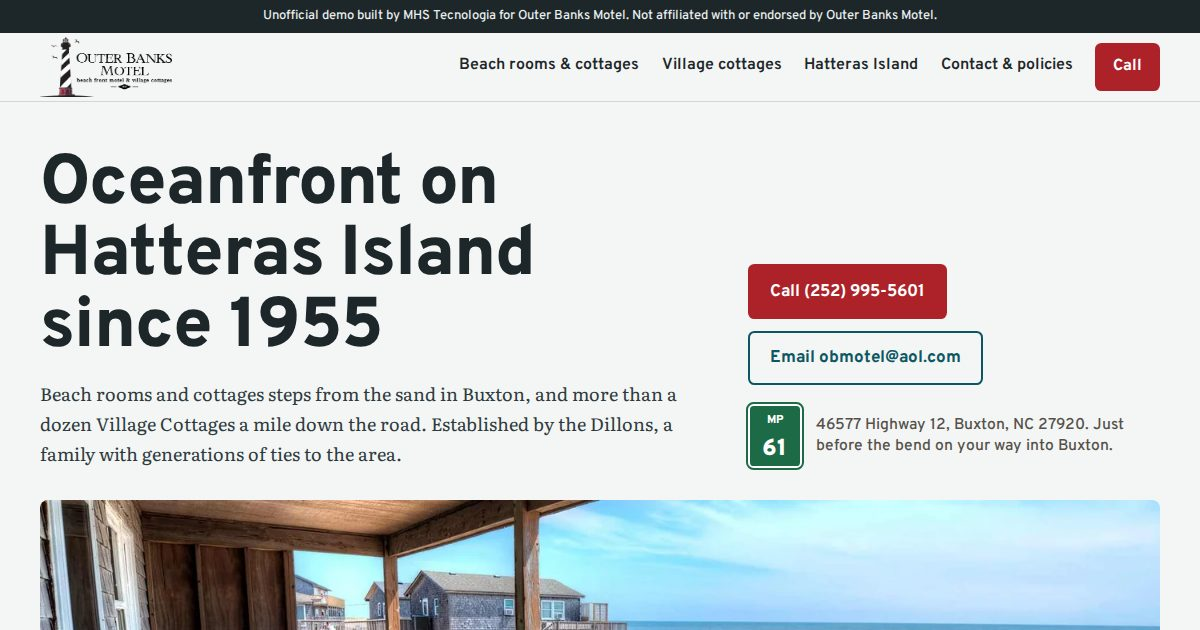
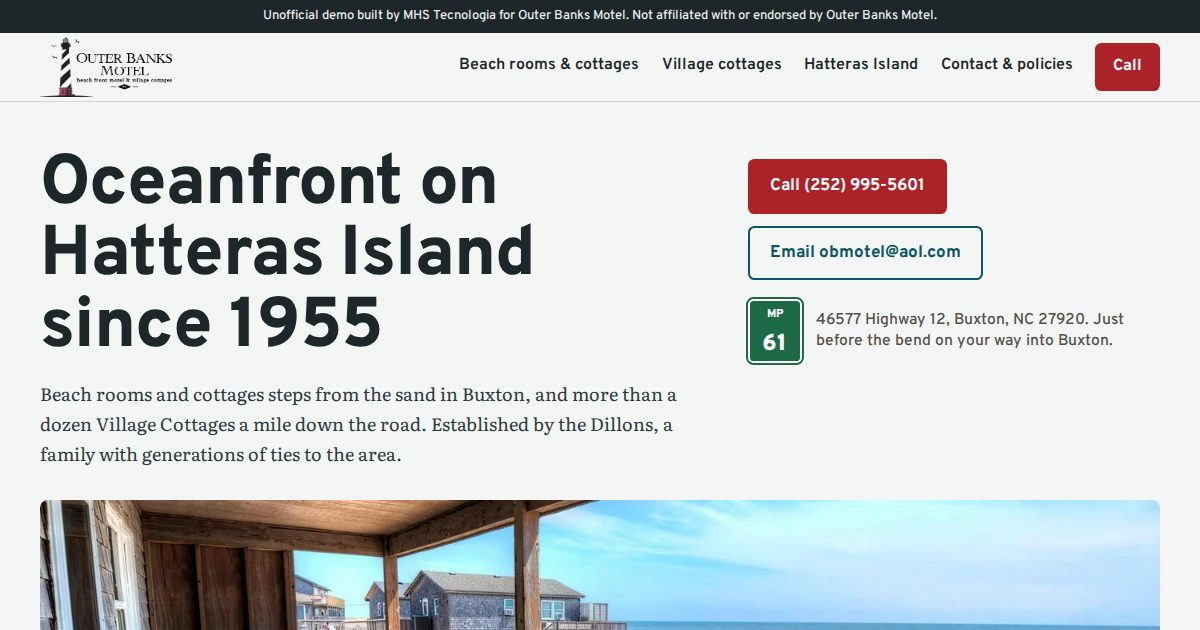
Previews: 158 ativos

Changed region(s): [[0.6167, 0.3921, 0.9558, 0.754], [0.6167, 0.2413, 0.8017, 0.3619]]

diff --git a/outer-banks-motel-buxton-nc/index.html b/outer-banks-motel-buxton-nc/index.html
@@ -49,8 +49,9 @@ header.top .wrap{display:flex;align-items:center;gap:1.5rem;min-height:4.25rem}
 .top .call-sm{padding:.55rem 1rem;min-height:2.6rem;font-size:1rem}
 /* hero */
 .hero{padding:clamp(1.5rem,4vw,3.25rem) 0 0}
-.hero-head{display:grid;grid-template-columns:minmax(0,1.6fr) minmax(0,1fr);gap:1rem 3rem;align-items:end}
+.hero-head{display:grid;grid-template-columns:minmax(0,1.6fr) minmax(0,1fr);gap:1rem 3rem;align-items:start}
 .lede{font-size:1.125rem;color:#2e3a3d;margin-top:.9rem}
+.hero-head .actions{margin-top:.6rem}
 .actions{display:flex;flex-wrap:wrap;gap:.75rem;margin-top:1.4rem}
 .mp{display:flex;align-items:center;gap:.85rem;margin-top:1.2rem;font:500 .98rem/1.35 Overpass,sans-serif;color:var(--shake)}
 .plate{flex:none;display:grid;place-items:center;width:3.4rem;height:4rem;background:var(--sign);color:#fff;border:2px solid #fff;outline:2px solid var(--sign);border-radius:.35rem;font:800 .72rem/1 Overpass,sans-serif;text-align:center;padding-top:.2rem}
@@ -64,7 +65,8 @@ section{padding:clamp(3rem,7vw,5.5rem) 0}
 .intro{margin-top:.9rem;color:#2e3a3d}
 .band{background:var(--dune)}
 .finder{display:grid;grid-template-columns:minmax(0,1.75fr) minmax(0,1fr);gap:2rem;margin-top:2rem;align-items:start}
-.map{position:sticky;top:5.5rem;border-radius:.5rem;overflow:hidden;background:#3b3a35}
+.mapcol{position:sticky;top:5.6rem;scroll-margin-top:5rem}
+.map{position:relative;border-radius:.5rem;overflow:hidden;background:#3b3a35}
 .rings{position:absolute;inset:0}
 .xs{display:grid;grid-template-columns:1.1fr .9fr .8fr 1.1fr;margin-top:2rem;border-radius:.5rem;overflow:hidden}
 .xs div{padding:1.4rem 1.2rem 1.5rem;font-size:1rem;line-height:1.5}
@@ -87,7 +89,7 @@ section{padding:clamp(3rem,7vw,5.5rem) 0}
 .unit:hover{background:rgba(255,255,255,.55)}
 .unit:focus-visible{outline:3px solid var(--sound)}
 .unit[aria-pressed=true]{background:var(--ink);color:#fff}.unit[aria-pressed=true] b{color:#ffd23f}
-.pick{margin-top:1rem;font:500 .98rem/1.45 Overpass,sans-serif;color:var(--shake);min-height:2.9em}
+.pick{margin-top:.75rem;font:500 .98rem/1.45 Overpass,sans-serif;color:var(--shake);min-height:2.9em}
 .pick a{color:var(--red-2);font-weight:800}
 .tabs{display:flex;gap:.4rem;margin-top:1.6rem;flex-wrap:wrap}
 .tabs button{font:700 1rem Overpass,sans-serif;padding:.6rem 1rem;border:2px solid var(--ink);background:transparent;color:var(--ink);border-radius:999px;cursor:pointer}
@@ -124,7 +126,7 @@ footer nav{display:grid;gap:.2rem}
   .menu{display:block}
   .brand img{width:112px}
   .hero-head,.finder,.two,.cols,.facts,.xs{grid-template-columns:1fr}
-  .map{position:relative;top:0}
+  .mapcol{position:relative;top:0}
   .finder{gap:1.25rem}
   .grid{grid-template-columns:1fr}
   .amen{columns:1}
@@ -197,28 +199,32 @@ footer nav{display:grid;gap:.2rem}
     </div>
     <div class="panel" id="pn-beach" role="tabpanel" aria-labelledby="t-beach">
 <div class="finder" data-finder="beach">
+  <div class="mapcol">
   <div class="map">
     <img src="img/map-beach-800.webp" srcset="img/map-beach-800.webp 800w, img/map-beach-1400.webp 1400w" sizes="(max-width: 900px) calc(100vw - 2rem), 700px" width="1400" height="933" alt="Drone photo of the motel&#x27;s beach grounds with every unit number labelled on its roof, the ocean on the left and Highway 12 on the right" loading="lazy" decoding="async">
     <div class="rings" aria-hidden="true"><span class="ring" data-u="3A" style="left:66.70%;top:4.20%;width:8.10%;height:9.30%"></span><span class="ring" data-u="3" style="left:71.95%;top:3.98%;width:5.80%;height:9.30%"></span><span class="ring" data-u="4A" style="left:66.70%;top:9.98%;width:8.10%;height:9.30%"></span><span class="ring" data-u="4" style="left:72.10%;top:9.83%;width:5.80%;height:9.30%"></span><span class="ring" data-u="5A" style="left:66.85%;top:15.98%;width:8.10%;height:9.30%"></span><span class="ring" data-u="5" style="left:72.25%;top:15.98%;width:5.80%;height:9.30%"></span><span class="ring" data-u="2" style="left:83.45%;top:10.73%;width:5.80%;height:9.30%"></span><span class="ring" data-u="1" style="left:88.60%;top:9.98%;width:5.80%;height:9.30%"></span><span class="ring" data-u="2A" style="left:82.35%;top:17.25%;width:8.10%;height:9.30%"></span><span class="ring" data-u="1A" style="left:87.60%;top:16.58%;width:8.10%;height:9.30%"></span><span class="ring" data-u="9" style="left:52.45%;top:11.10%;width:5.80%;height:9.30%"></span><span class="ring" data-u="8" style="left:52.50%;top:17.85%;width:5.80%;height:9.30%"></span><span class="ring" data-u="7" style="left:52.60%;top:24.98%;width:5.80%;height:9.30%"></span><span class="ring" data-u="6" style="left:52.90%;top:32.26%;width:5.80%;height:9.30%"></span><span class="ring" data-u="110" style="left:38.30%;top:39.83%;width:10.40%;height:9.30%"></span><span class="ring" data-u="109" style="left:38.65%;top:47.34%;width:10.40%;height:9.30%"></span><span class="ring" data-u="14" style="left:69.70%;top:45.46%;width:8.10%;height:9.30%"></span><span class="ring" data-u="15" style="left:75.20%;top:45.46%;width:8.10%;height:9.30%"></span><span class="ring" data-u="107" style="left:24.05%;top:82.37%;width:10.40%;height:9.30%"></span><span class="ring" data-u="105" style="left:37.40%;top:74.72%;width:10.40%;height:9.30%"></span><span class="ring" data-u="103" style="left:46.30%;top:74.49%;width:10.40%;height:9.30%"></span><span class="ring" data-u="101" style="left:55.20%;top:74.12%;width:10.40%;height:9.30%"></span><span class="ring" data-u="106" style="left:36.60%;top:80.50%;width:10.40%;height:9.30%"></span><span class="ring" data-u="104" style="left:45.60%;top:80.12%;width:10.40%;height:9.30%"></span><span class="ring" data-u="102" style="left:54.40%;top:79.74%;width:10.40%;height:9.30%"></span><span class="ring" data-u="100" style="left:65.20%;top:72.62%;width:10.40%;height:9.30%"></span><span class="ring" data-u="B" style="left:73.00%;top:74.12%;width:5.80%;height:9.30%"></span></div>
+  </div>
+  <p class="pick" aria-live="polite">Tap a unit to see where it sits.</p>
   </div>
   <div class="units">
     <h3>Beach grounds</h3>
     <p class="sub">Rooms, efficiencies and oceanfront cottages, by bedrooms.</p>
     <details class="grp" open><summary>1-bedroom units <small>11 types</small></summary><ul><li><button type="button" class="unit" data-units="B" data-name="B" data-desc="Standard Room w/ Kitchen &amp; 2 Doubles" aria-pressed="false"><b>B</b><span>Standard Room w/ Kitchen &amp; 2 Doubles</span></button></li><li><button type="button" class="unit" data-units="1A 2A" data-name="1A, 2A" data-desc="Standard Room w/ 2 Queens" aria-pressed="false"><b>1A, 2A</b><span>Standard Room w/ 2 Queens</span></button></li><li><button type="button" class="unit" data-units="3A 4A 7 8" data-name="3A, 4A, 7, 8" data-desc="Oceanview Room w/ 2 Queens" aria-pressed="false"><b>3A, 4A, 7, 8</b><span>Oceanview Room w/ 2 Queens</span></button></li><li><button type="button" class="unit" data-units="5A" data-name="5A" data-desc="Oceanview Room w/ 1 King &amp; Pullout Couch" aria-pressed="false"><b>5A</b><span>Oceanview Room w/ 1 King &amp; Pullout Couch</span></button></li><li><button type="button" class="unit" data-units="6 103" data-name="6, 103" data-desc="Oceanview Room w/ Kitchen, 1 King &amp; 1 Twin" aria-pressed="false"><b>6, 103</b><span>Oceanview Room w/ Kitchen, 1 King &amp; 1 Twin</span></button></li><li><button type="button" class="unit" data-units="14" data-name="14" data-desc="Cottage w/ Kitchen, 1 Queen &amp; 1 Twin" aria-pressed="false"><b>14</b><span>Cottage w/ Kitchen, 1 Queen &amp; 1 Twin</span></button></li><li><button type="button" class="unit" data-units="15" data-name="15" data-desc="Standard Room w/ 1 Queen &amp; 1 Twin" aria-pressed="false"><b>15</b><span>Standard Room w/ 1 Queen &amp; 1 Twin</span></button></li><li><button type="button" class="unit" data-units="101" data-name="101" data-desc="Oceanview Room w/ 1 King" aria-pressed="false"><b>101</b><span>Oceanview Room w/ 1 King</span></button></li><li><button type="button" class="unit" data-units="102 104 105" data-name="102, 104, 105" data-desc="Oceanview Room w/ Kitchen, 2 Doubles" aria-pressed="false"><b>102, 104, 105</b><span>Oceanview Room w/ Kitchen, 2 Doubles</span></button></li><li><button type="button" class="unit" data-units="106" data-name="106" data-desc="Oceanview Room w/ 2 Queens" aria-pressed="false"><b>106</b><span>Oceanview Room w/ 2 Queens</span></button></li><li><button type="button" class="unit" data-units="109" data-name="109" data-desc="Oceanfront Room w/ 2 Queens" aria-pressed="false"><b>109</b><span>Oceanfront Room w/ 2 Queens</span></button></li></ul></details><details class="grp"><summary>2-bedroom units <small>3 types</small></summary><ul><li><button type="button" class="unit" data-units="1 2" data-name="1, 2" data-desc="Cottage w/ 1 Queen &amp; 1 Twin in Each Room" aria-pressed="false"><b>1, 2</b><span>Cottage w/ 1 Queen &amp; 1 Twin in Each Room</span></button></li><li><button type="button" class="unit" data-units="3 4 5 9 14 15" data-name="3, 4, 5, 9, 14+15" data-desc="Oceanview Cottage for Up to 6 Guests" aria-pressed="false"><b>3, 4, 5, 9, 14+15</b><span>Oceanview Cottage for Up to 6 Guests</span></button></li><li><button type="button" class="unit" data-units="107" data-name="107" data-desc="Oceanfront Beach House w/ 1 Queen &amp; 1 Twin in Each Room" aria-pressed="false"><b>107</b><span>Oceanfront Beach House w/ 1 Queen &amp; 1 Twin in Each Room</span></button></li></ul></details><details class="grp"><summary>3-bedroom units <small>3 types</small></summary><ul><li><button type="button" class="unit" data-units="1 1A 2 2A" data-name="1+1A, 2+2A" data-desc="Cottage w/ 4 Queens &amp; 2 Twins" aria-pressed="false"><b>1+1A, 2+2A</b><span>Cottage w/ 4 Queens &amp; 2 Twins</span></button></li><li><button type="button" class="unit" data-units="100" data-name="100" data-desc="Cottage w/ 3 Doubles, 3 Twins &amp; 2 Baths" aria-pressed="false"><b>100</b><span>Cottage w/ 3 Doubles, 3 Twins &amp; 2 Baths</span></button></li><li><button type="button" class="unit" data-units="109 110" data-name="109, 110" data-desc="Oceanview Beach House" aria-pressed="false"><b>109, 110</b><span>Oceanview Beach House</span></button></li></ul></details>
-    <p class="pick" aria-live="polite">Tap a unit to see where it sits.</p>
   </div>
 </div></div>
     <div class="panel" id="pn-village" role="tabpanel" aria-labelledby="t-village" hidden>
 <div class="finder" data-finder="village">
+  <div class="mapcol">
   <div class="map">
     <img src="img/map-village-800.webp" srcset="img/map-village-800.webp 800w, img/map-village-1400.webp 1400w" sizes="(max-width: 900px) calc(100vw - 2rem), 700px" width="1400" height="933" alt="Drone photo of the Village Cottages in Buxton with each cottage&#x27;s name labelled on its roof, along the road and the canal" loading="lazy" decoding="async">
     <div class="rings" aria-hidden="true"><span class="ring" data-u="ME1" style="left:12.05%;top:26.33%;width:10.40%;height:9.30%"></span><span class="ring" data-u="ME2" style="left:16.20%;top:31.96%;width:10.40%;height:9.30%"></span><span class="ring" data-u="JA1" style="left:35.80%;top:25.51%;width:10.40%;height:9.30%"></span><span class="ring" data-u="JA2" style="left:39.65%;top:30.98%;width:10.40%;height:9.30%"></span><span class="ring" data-u="KM" style="left:4.10%;top:64.97%;width:8.10%;height:9.30%"></span><span class="ring" data-u="M1" style="left:16.95%;top:61.37%;width:8.10%;height:9.30%"></span><span class="ring" data-u="M2" style="left:20.95%;top:67.22%;width:8.10%;height:9.30%"></span><span class="ring" data-u="WH" style="left:25.45%;top:59.26%;width:8.10%;height:9.30%"></span><span class="ring" data-u="WO" style="left:33.05%;top:64.74%;width:8.10%;height:9.30%"></span><span class="ring" data-u="G1" style="left:47.70%;top:62.64%;width:8.10%;height:9.30%"></span><span class="ring" data-u="G2" style="left:52.45%;top:64.37%;width:8.10%;height:9.30%"></span><span class="ring" data-u="G3" style="left:57.70%;top:61.37%;width:8.10%;height:9.30%"></span><span class="ring" data-u="G4" style="left:63.05%;top:63.24%;width:8.10%;height:9.30%"></span><span class="ring" data-u="G5" style="left:66.20%;top:58.36%;width:8.10%;height:9.30%"></span><span class="ring" data-u="H" style="left:79.75%;top:74.27%;width:5.80%;height:9.30%"></span><span class="ring" data-u="G6" style="left:85.35%;top:78.39%;width:8.10%;height:9.30%"></span><span class="ring" data-u="D" style="left:82.70%;top:86.27%;width:5.80%;height:9.30%"></span><span class="ring" data-u="F" style="left:89.20%;top:86.72%;width:5.80%;height:9.30%"></span></div>
+  </div>
+  <p class="pick" aria-live="polite">Tap a unit to see where it sits.</p>
   </div>
   <div class="units">
     <h3>Village Cottages</h3>
     <p class="sub">About a mile down the road, in Buxton village.</p>
     <details class="grp" open><summary>1-bedroom units <small>7 types</small></summary><ul><li><button type="button" class="unit" data-units="F" data-name="F" data-desc="Cottage for Three w/ 1 Queen &amp; 1 Twin" aria-pressed="false"><b>F</b><span>Cottage for Three w/ 1 Queen &amp; 1 Twin</span></button></li><li><button type="button" class="unit" data-units="G1" data-name="G1" data-desc="Studio Room w/ 2 Doubles" aria-pressed="false"><b>G1</b><span>Studio Room w/ 2 Doubles</span></button></li><li><button type="button" class="unit" data-units="G2" data-name="G2" data-desc="Large Cottage w/ 1 Double &amp; 1 Twin" aria-pressed="false"><b>G2</b><span>Large Cottage w/ 1 Double &amp; 1 Twin</span></button></li><li><button type="button" class="unit" data-units="G5" data-name="G5" data-desc="Cottage w/ 1 Double &amp; 2 Twins" aria-pressed="false"><b>G5</b><span>Cottage w/ 1 Double &amp; 2 Twins</span></button></li><li><button type="button" class="unit" data-units="H JA1" data-name="H, JA1" data-desc="Cottage for Four" aria-pressed="false"><b>H, JA1</b><span>Cottage for Four</span></button></li><li><button type="button" class="unit" data-units="M1" data-name="M1" data-desc="Large Cottage w/ 2 Queens" aria-pressed="false"><b>M1</b><span>Large Cottage w/ 2 Queens</span></button></li><li><button type="button" class="unit" data-units="M2" data-name="M2" data-desc="Studio Room w/ 2 Queens" aria-pressed="false"><b>M2</b><span>Studio Room w/ 2 Queens</span></button></li></ul></details><details class="grp"><summary>2-bedroom units <small>4 types</small></summary><ul><li><button type="button" class="unit" data-units="G1 G2" data-name="G1+G2" data-desc="Cottage Combo w/ 3 Doubles &amp; 1 Twin" aria-pressed="false"><b>G1+G2</b><span>Cottage Combo w/ 3 Doubles &amp; 1 Twin</span></button></li><li><button type="button" class="unit" data-units="G3" data-name="G3" data-desc="Cottage w/ 2 Doubles &amp; 2 Twins" aria-pressed="false"><b>G3</b><span>Cottage w/ 2 Doubles &amp; 2 Twins</span></button></li><li><button type="button" class="unit" data-units="G4 G6" data-name="G4, G6" data-desc="Cottage for Four" aria-pressed="false"><b>G4, G6</b><span>Cottage for Four</span></button></li><li><button type="button" class="unit" data-units="WH" data-name="WH" data-desc="Cottage w/ 1 Queen &amp; 2 Doubles" aria-pressed="false"><b>WH</b><span>Cottage w/ 1 Queen &amp; 2 Doubles</span></button></li></ul></details><details class="grp"><summary>3-bedroom units <small>6 types</small></summary><ul><li><button type="button" class="unit" data-units="D" data-name="D" data-desc="Cottage w/ 1 King, 1 Queen &amp; 4 Twins" aria-pressed="false"><b>D</b><span>Cottage w/ 1 King, 1 Queen &amp; 4 Twins</span></button></li><li><button type="button" class="unit" data-units="JA2" data-name="JA2" data-desc="Cottage w/ 1 King, 2 Queens &amp; 3 Twins" aria-pressed="false"><b>JA2</b><span>Cottage w/ 1 King, 2 Queens &amp; 3 Twins</span></button></li><li><button type="button" class="unit" data-units="KM" data-name="KM" data-desc="Cottage w/ 1 King, 1 Queen &amp; 4 Twins" aria-pressed="false"><b>KM</b><span>Cottage w/ 1 King, 1 Queen &amp; 4 Twins</span></button></li><li><button type="button" class="unit" data-units="ME1" data-name="ME1" data-desc="Duplex w/ 2 Kings, 2 Queens &amp; 2 Twins" aria-pressed="false"><b>ME1</b><span>Duplex w/ 2 Kings, 2 Queens &amp; 2 Twins</span></button></li><li><button type="button" class="unit" data-units="ME2" data-name="ME2" data-desc="Duplex w/ 2 Kings, 2 Queens &amp; 2 Twins" aria-pressed="false"><b>ME2</b><span>Duplex w/ 2 Kings, 2 Queens &amp; 2 Twins</span></button></li><li><button type="button" class="unit" data-units="WO" data-name="WO" data-desc="Cottage w/ 1 Queen, 3 Doubles &amp; 1 Twin" aria-pressed="false"><b>WO</b><span>Cottage w/ 1 Queen, 3 Doubles &amp; 1 Twin</span></button></li></ul></details>
-    <p class="pick" aria-live="polite">Tap a unit to see where it sits.</p>
   </div>
 </div></div>
   </div>
@@ -298,7 +304,7 @@ document.querySelectorAll('[data-finder]').forEach(f=>{
     pick.innerHTML='';
     pick.append((many?'Units ':'Unit ')+b.dataset.name+', '+b.dataset.desc+'. To book this exact '+(many?'one':'unit')+', call ');
     const a=document.createElement('a');a.href='tel:+12529955601';a.textContent='(252) 995-5601';pick.append(a,'.');
-    if(matchMedia('(max-width:900px)').matches){const r=map.getBoundingClientRect();if(r.bottom<80||r.top>innerHeight*.5)map.scrollIntoView({behavior:matchMedia('(prefers-reduced-motion:reduce)').matches?'auto':'smooth',block:'start'})}
+    if(matchMedia('(max-width:900px)').matches){const mc=map.parentElement,r=mc.getBoundingClientRect();if(r.top<70||r.bottom>innerHeight)mc.scrollIntoView({behavior:matchMedia('(prefers-reduced-motion:reduce)').matches?'auto':'smooth',block:'start'})}
   }));
 });
 document.querySelectorAll('[role=tablist]').forEach(tl=>{

diff --git a/outer-banks-motel-buxton-nc/beach.html b/outer-banks-motel-buxton-nc/beach.html
@@ -47,8 +47,9 @@ header.top .wrap{display:flex;align-items:center;gap:1.5rem;min-height:4.25rem}
 .top .call-sm{padding:.55rem 1rem;min-height:2.6rem;font-size:1rem}
 /* hero */
 .hero{padding:clamp(1.5rem,4vw,3.25rem) 0 0}
-.hero-head{display:grid;grid-template-columns:minmax(0,1.6fr) minmax(0,1fr);gap:1rem 3rem;align-items:end}
+.hero-head{display:grid;grid-template-columns:minmax(0,1.6fr) minmax(0,1fr);gap:1rem 3rem;align-items:start}
 .lede{font-size:1.125rem;color:#2e3a3d;margin-top:.9rem}
+.hero-head .actions{margin-top:.6rem}
 .actions{display:flex;flex-wrap:wrap;gap:.75rem;margin-top:1.4rem}
 .mp{display:flex;align-items:center;gap:.85rem;margin-top:1.2rem;font:500 .98rem/1.35 Overpass,sans-serif;color:var(--shake)}
 .plate{flex:none;display:grid;place-items:center;width:3.4rem;height:4rem;background:var(--sign);color:#fff;border:2px solid #fff;outline:2px solid var(--sign);border-radius:.35rem;font:800 .72rem/1 Overpass,sans-serif;text-align:center;padding-top:.2rem}
@@ -62,7 +63,8 @@ section{padding:clamp(3rem,7vw,5.5rem) 0}
 .intro{margin-top:.9rem;color:#2e3a3d}
 .band{background:var(--dune)}
 .finder{display:grid;grid-template-columns:minmax(0,1.75fr) minmax(0,1fr);gap:2rem;margin-top:2rem;align-items:start}
-.map{position:sticky;top:5.5rem;border-radius:.5rem;overflow:hidden;background:#3b3a35}
+.mapcol{position:sticky;top:5.6rem;scroll-margin-top:5rem}
+.map{position:relative;border-radius:.5rem;overflow:hidden;background:#3b3a35}
 .rings{position:absolute;inset:0}
 .xs{display:grid;grid-template-columns:1.1fr .9fr .8fr 1.1fr;margin-top:2rem;border-radius:.5rem;overflow:hidden}
 .xs div{padding:1.4rem 1.2rem 1.5rem;font-size:1rem;line-height:1.5}
@@ -85,7 +87,7 @@ section{padding:clamp(3rem,7vw,5.5rem) 0}
 .unit:hover{background:rgba(255,255,255,.55)}
 .unit:focus-visible{outline:3px solid var(--sound)}
 .unit[aria-pressed=true]{background:var(--ink);color:#fff}.unit[aria-pressed=true] b{color:#ffd23f}
-.pick{margin-top:1rem;font:500 .98rem/1.45 Overpass,sans-serif;color:var(--shake);min-height:2.9em}
+.pick{margin-top:.75rem;font:500 .98rem/1.45 Overpass,sans-serif;color:var(--shake);min-height:2.9em}
 .pick a{color:var(--red-2);font-weight:800}
 .tabs{display:flex;gap:.4rem;margin-top:1.6rem;flex-wrap:wrap}
 .tabs button{font:700 1rem Overpass,sans-serif;padding:.6rem 1rem;border:2px solid var(--ink);background:transparent;color:var(--ink);border-radius:999px;cursor:pointer}
@@ -122,7 +124,7 @@ footer nav{display:grid;gap:.2rem}
   .menu{display:block}
   .brand img{width:112px}
   .hero-head,.finder,.two,.cols,.facts,.xs{grid-template-columns:1fr}
-  .map{position:relative;top:0}
+  .mapcol{position:relative;top:0}
   .finder{gap:1.25rem}
   .grid{grid-template-columns:1fr}
   .amen{columns:1}
@@ -174,15 +176,17 @@ footer nav{display:grid;gap:.2rem}
     <p class="intro">Choose oceanside, ocean view or oceanfront. The views vary, but you will be steps from the beach no matter what. Online reservations are for the next available unit of a given type; to book a specific unit, call (252) 995-5601.</p>
     
 <div class="finder" data-finder="beach">
+  <div class="mapcol">
   <div class="map">
     <img src="img/map-beach-800.webp" srcset="img/map-beach-800.webp 800w, img/map-beach-1400.webp 1400w" sizes="(max-width: 900px) calc(100vw - 2rem), 700px" width="1400" height="933" alt="Drone photo of the motel&#x27;s beach grounds with every unit number labelled on its roof, the ocean on the left and Highway 12 on the right" loading="lazy" decoding="async">
     <div class="rings" aria-hidden="true"><span class="ring" data-u="3A" style="left:66.70%;top:4.20%;width:8.10%;height:9.30%"></span><span class="ring" data-u="3" style="left:71.95%;top:3.98%;width:5.80%;height:9.30%"></span><span class="ring" data-u="4A" style="left:66.70%;top:9.98%;width:8.10%;height:9.30%"></span><span class="ring" data-u="4" style="left:72.10%;top:9.83%;width:5.80%;height:9.30%"></span><span class="ring" data-u="5A" style="left:66.85%;top:15.98%;width:8.10%;height:9.30%"></span><span class="ring" data-u="5" style="left:72.25%;top:15.98%;width:5.80%;height:9.30%"></span><span class="ring" data-u="2" style="left:83.45%;top:10.73%;width:5.80%;height:9.30%"></span><span class="ring" data-u="1" style="left:88.60%;top:9.98%;width:5.80%;height:9.30%"></span><span class="ring" data-u="2A" style="left:82.35%;top:17.25%;width:8.10%;height:9.30%"></span><span class="ring" data-u="1A" style="left:87.60%;top:16.58%;width:8.10%;height:9.30%"></span><span class="ring" data-u="9" style="left:52.45%;top:11.10%;width:5.80%;height:9.30%"></span><span class="ring" data-u="8" style="left:52.50%;top:17.85%;width:5.80%;height:9.30%"></span><span class="ring" data-u="7" style="left:52.60%;top:24.98%;width:5.80%;height:9.30%"></span><span class="ring" data-u="6" style="left:52.90%;top:32.26%;width:5.80%;height:9.30%"></span><span class="ring" data-u="110" style="left:38.30%;top:39.83%;width:10.40%;height:9.30%"></span><span class="ring" data-u="109" style="left:38.65%;top:47.34%;width:10.40%;height:9.30%"></span><span class="ring" data-u="14" style="left:69.70%;top:45.46%;width:8.10%;height:9.30%"></span><span class="ring" data-u="15" style="left:75.20%;top:45.46%;width:8.10%;height:9.30%"></span><span class="ring" data-u="107" style="left:24.05%;top:82.37%;width:10.40%;height:9.30%"></span><span class="ring" data-u="105" style="left:37.40%;top:74.72%;width:10.40%;height:9.30%"></span><span class="ring" data-u="103" style="left:46.30%;top:74.49%;width:10.40%;height:9.30%"></span><span class="ring" data-u="101" style="left:55.20%;top:74.12%;width:10.40%;height:9.30%"></span><span class="ring" data-u="106" style="left:36.60%;top:80.50%;width:10.40%;height:9.30%"></span><span class="ring" data-u="104" style="left:45.60%;top:80.12%;width:10.40%;height:9.30%"></span><span class="ring" data-u="102" style="left:54.40%;top:79.74%;width:10.40%;height:9.30%"></span><span class="ring" data-u="100" style="left:65.20%;top:72.62%;width:10.40%;height:9.30%"></span><span class="ring" data-u="B" style="left:73.00%;top:74.12%;width:5.80%;height:9.30%"></span></div>
+  </div>
+  <p class="pick" aria-live="polite">Tap a unit to see where it sits.</p>
   </div>
   <div class="units">
     <h3>Beach grounds</h3>
     <p class="sub">Rooms, efficiencies and oceanfront cottages, by bedrooms.</p>
     <details class="grp" open><summary>1-bedroom units <small>11 types</small></summary><ul><li><button type="button" class="unit" data-units="B" data-name="B" data-desc="Standard Room w/ Kitchen &amp; 2 Doubles" aria-pressed="false"><b>B</b><span>Standard Room w/ Kitchen &amp; 2 Doubles</span></button></li><li><button type="button" class="unit" data-units="1A 2A" data-name="1A, 2A" data-desc="Standard Room w/ 2 Queens" aria-pressed="false"><b>1A, 2A</b><span>Standard Room w/ 2 Queens</span></button></li><li><button type="button" class="unit" data-units="3A 4A 7 8" data-name="3A, 4A, 7, 8" data-desc="Oceanview Room w/ 2 Queens" aria-pressed="false"><b>3A, 4A, 7, 8</b><span>Oceanview Room w/ 2 Queens</span></button></li><li><button type="button" class="unit" data-units="5A" data-name="5A" data-desc="Oceanview Room w/ 1 King &amp; Pullout Couch" aria-pressed="false"><b>5A</b><span>Oceanview Room w/ 1 King &amp; Pullout Couch</span></button></li><li><button type="button" class="unit" data-units="6 103" data-name="6, 103" data-desc="Oceanview Room w/ Kitchen, 1 King &amp; 1 Twin" aria-pressed="false"><b>6, 103</b><span>Oceanview Room w/ Kitchen, 1 King &amp; 1 Twin</span></button></li><li><button type="button" class="unit" data-units="14" data-name="14" data-desc="Cottage w/ Kitchen, 1 Queen &amp; 1 Twin" aria-pressed="false"><b>14</b><span>Cottage w/ Kitchen, 1 Queen &amp; 1 Twin</span></button></li><li><button type="button" class="unit" data-units="15" data-name="15" data-desc="Standard Room w/ 1 Queen &amp; 1 Twin" aria-pressed="false"><b>15</b><span>Standard Room w/ 1 Queen &amp; 1 Twin</span></button></li><li><button type="button" class="unit" data-units="101" data-name="101" data-desc="Oceanview Room w/ 1 King" aria-pressed="false"><b>101</b><span>Oceanview Room w/ 1 King</span></button></li><li><button type="button" class="unit" data-units="102 104 105" data-name="102, 104, 105" data-desc="Oceanview Room w/ Kitchen, 2 Doubles" aria-pressed="false"><b>102, 104, 105</b><span>Oceanview Room w/ Kitchen, 2 Doubles</span></button></li><li><button type="button" class="unit" data-units="106" data-name="106" data-desc="Oceanview Room w/ 2 Queens" aria-pressed="false"><b>106</b><span>Oceanview Room w/ 2 Queens</span></button></li><li><button type="button" class="unit" data-units="109" data-name="109" data-desc="Oceanfront Room w/ 2 Queens" aria-pressed="false"><b>109</b><span>Oceanfront Room w/ 2 Queens</span></button></li></ul></details><details class="grp"><summary>2-bedroom units <small>3 types</small></summary><ul><li><button type="button" class="unit" data-units="1 2" data-name="1, 2" data-desc="Cottage w/ 1 Queen &amp; 1 Twin in Each Room" aria-pressed="false"><b>1, 2</b><span>Cottage w/ 1 Queen &amp; 1 Twin in Each Room</span></button></li><li><button type="button" class="unit" data-units="3 4 5 9 14 15" data-name="3, 4, 5, 9, 14+15" data-desc="Oceanview Cottage for Up to 6 Guests" aria-pressed="false"><b>3, 4, 5, 9, 14+15</b><span>Oceanview Cottage for Up to 6 Guests</span></button></li><li><button type="button" class="unit" data-units="107" data-name="107" data-desc="Oceanfront Beach House w/ 1 Queen &amp; 1 Twin in Each Room" aria-pressed="false"><b>107</b><span>Oceanfront Beach House w/ 1 Queen &amp; 1 Twin in Each Room</span></button></li></ul></details><details class="grp"><summary>3-bedroom units <small>3 types</small></summary><ul><li><button type="button" class="unit" data-units="1 1A 2 2A" data-name="1+1A, 2+2A" data-desc="Cottage w/ 4 Queens &amp; 2 Twins" aria-pressed="false"><b>1+1A, 2+2A</b><span>Cottage w/ 4 Queens &amp; 2 Twins</span></button></li><li><button type="button" class="unit" data-units="100" data-name="100" data-desc="Cottage w/ 3 Doubles, 3 Twins &amp; 2 Baths" aria-pressed="false"><b>100</b><span>Cottage w/ 3 Doubles, 3 Twins &amp; 2 Baths</span></button></li><li><button type="button" class="unit" data-units="109 110" data-name="109, 110" data-desc="Oceanview Beach House" aria-pressed="false"><b>109, 110</b><span>Oceanview Beach House</span></button></li></ul></details>
-    <p class="pick" aria-live="polite">Tap a unit to see where it sits.</p>
   </div>
 </div>
   </div>
@@ -247,7 +251,7 @@ document.querySelectorAll('[data-finder]').forEach(f=>{
     pick.innerHTML='';
     pick.append((many?'Units ':'Unit ')+b.dataset.name+', '+b.dataset.desc+'. To book this exact '+(many?'one':'unit')+', call ');
     const a=document.createElement('a');a.href='tel:+12529955601';a.textContent='(252) 995-5601';pick.append(a,'.');
-    if(matchMedia('(max-width:900px)').matches){const r=map.getBoundingClientRect();if(r.bottom<80||r.top>innerHeight*.5)map.scrollIntoView({behavior:matchMedia('(prefers-reduced-motion:reduce)').matches?'auto':'smooth',block:'start'})}
+    if(matchMedia('(max-width:900px)').matches){const mc=map.parentElement,r=mc.getBoundingClientRect();if(r.top<70||r.bottom>innerHeight)mc.scrollIntoView({behavior:matchMedia('(prefers-reduced-motion:reduce)').matches?'auto':'smooth',block:'start'})}
   }));
 });
 document.querySelectorAll('[role=tablist]').forEach(tl=>{

diff --git a/outer-banks-motel-buxton-nc/village.html b/outer-banks-motel-buxton-nc/village.html
@@ -47,8 +47,9 @@ header.top .wrap{display:flex;align-items:center;gap:1.5rem;min-height:4.25rem}
 .top .call-sm{padding:.55rem 1rem;min-height:2.6rem;font-size:1rem}
 /* hero */
 .hero{padding:clamp(1.5rem,4vw,3.25rem) 0 0}
-.hero-head{display:grid;grid-template-columns:minmax(0,1.6fr) minmax(0,1fr);gap:1rem 3rem;align-items:end}
+.hero-head{display:grid;grid-template-columns:minmax(0,1.6fr) minmax(0,1fr);gap:1rem 3rem;align-items:start}
 .lede{font-size:1.125rem;color:#2e3a3d;margin-top:.9rem}
+.hero-head .actions{margin-top:.6rem}
 .actions{display:flex;flex-wrap:wrap;gap:.75rem;margin-top:1.4rem}
 .mp{display:flex;align-items:center;gap:.85rem;margin-top:1.2rem;font:500 .98rem/1.35 Overpass,sans-serif;color:var(--shake)}
 .plate{flex:none;display:grid;place-items:center;width:3.4rem;height:4rem;background:var(--sign);color:#fff;border:2px solid #fff;outline:2px solid var(--sign);border-radius:.35rem;font:800 .72rem/1 Overpass,sans-serif;text-align:center;padding-top:.2rem}
@@ -62,7 +63,8 @@ section{padding:clamp(3rem,7vw,5.5rem) 0}
 .intro{margin-top:.9rem;color:#2e3a3d}
 .band{background:var(--dune)}
 .finder{display:grid;grid-template-columns:minmax(0,1.75fr) minmax(0,1fr);gap:2rem;margin-top:2rem;align-items:start}
-.map{position:sticky;top:5.5rem;border-radius:.5rem;overflow:hidden;background:#3b3a35}
+.mapcol{position:sticky;top:5.6rem;scroll-margin-top:5rem}
+.map{position:relative;border-radius:.5rem;overflow:hidden;background:#3b3a35}
 .rings{position:absolute;inset:0}
 .xs{display:grid;grid-template-columns:1.1fr .9fr .8fr 1.1fr;margin-top:2rem;border-radius:.5rem;overflow:hidden}
 .xs div{padding:1.4rem 1.2rem 1.5rem;font-size:1rem;line-height:1.5}
@@ -85,7 +87,7 @@ section{padding:clamp(3rem,7vw,5.5rem) 0}
 .unit:hover{background:rgba(255,255,255,.55)}
 .unit:focus-visible{outline:3px solid var(--sound)}
 .unit[aria-pressed=true]{background:var(--ink);color:#fff}.unit[aria-pressed=true] b{color:#ffd23f}
-.pick{margin-top:1rem;font:500 .98rem/1.45 Overpass,sans-serif;color:var(--shake);min-height:2.9em}
+.pick{margin-top:.75rem;font:500 .98rem/1.45 Overpass,sans-serif;color:var(--shake);min-height:2.9em}
 .pick a{color:var(--red-2);font-weight:800}
 .tabs{display:flex;gap:.4rem;margin-top:1.6rem;flex-wrap:wrap}
 .tabs button{font:700 1rem Overpass,sans-serif;padding:.6rem 1rem;border:2px solid var(--ink);background:transparent;color:var(--ink);border-radius:999px;cursor:pointer}
@@ -122,7 +124,7 @@ footer nav{display:grid;gap:.2rem}
   .menu{display:block}
   .brand img{width:112px}
   .hero-head,.finder,.two,.cols,.facts,.xs{grid-template-columns:1fr}
-  .map{position:relative;top:0}
+  .mapcol{position:relative;top:0}
   .finder{gap:1.25rem}
   .grid{grid-template-columns:1fr}
   .amen{columns:1}
@@ -186,15 +188,17 @@ footer nav{display:grid;gap:.2rem}
     <p class="intro">All village units are about a mile from the beach: too far to walk for most people, but a quick drive to the beach access at the motel complex. To book a specific cottage, call (252) 995-5601.</p>
     
 <div class="finder" data-finder="village">
+  <div class="mapcol">
   <div class="map">
     <img src="img/map-village-800.webp" srcset="img/map-village-800.webp 800w, img/map-village-1400.webp 1400w" sizes="(max-width: 900px) calc(100vw - 2rem), 700px" width="1400" height="933" alt="Drone photo of the Village Cottages in Buxton with each cottage&#x27;s name labelled on its roof, along the road and the canal" loading="lazy" decoding="async">
     <div class="rings" aria-hidden="true"><span class="ring" data-u="ME1" style="left:12.05%;top:26.33%;width:10.40%;height:9.30%"></span><span class="ring" data-u="ME2" style="left:16.20%;top:31.96%;width:10.40%;height:9.30%"></span><span class="ring" data-u="JA1" style="left:35.80%;top:25.51%;width:10.40%;height:9.30%"></span><span class="ring" data-u="JA2" style="left:39.65%;top:30.98%;width:10.40%;height:9.30%"></span><span class="ring" data-u="KM" style="left:4.10%;top:64.97%;width:8.10%;height:9.30%"></span><span class="ring" data-u="M1" style="left:16.95%;top:61.37%;width:8.10%;height:9.30%"></span><span class="ring" data-u="M2" style="left:20.95%;top:67.22%;width:8.10%;height:9.30%"></span><span class="ring" data-u="WH" style="left:25.45%;top:59.26%;width:8.10%;height:9.30%"></span><span class="ring" data-u="WO" style="left:33.05%;top:64.74%;width:8.10%;height:9.30%"></span><span class="ring" data-u="G1" style="left:47.70%;top:62.64%;width:8.10%;height:9.30%"></span><span class="ring" data-u="G2" style="left:52.45%;top:64.37%;width:8.10%;height:9.30%"></span><span class="ring" data-u="G3" style="left:57.70%;top:61.37%;width:8.10%;height:9.30%"></span><span class="ring" data-u="G4" style="left:63.05%;top:63.24%;width:8.10%;height:9.30%"></span><span class="ring" data-u="G5" style="left:66.20%;top:58.36%;width:8.10%;height:9.30%"></span><span class="ring" data-u="H" style="left:79.75%;top:74.27%;width:5.80%;height:9.30%"></span><span class="ring" data-u="G6" style="left:85.35%;top:78.39%;width:8.10%;height:9.30%"></span><span class="ring" data-u="D" style="left:82.70%;top:86.27%;width:5.80%;height:9.30%"></span><span class="ring" data-u="F" style="left:89.20%;top:86.72%;width:5.80%;height:9.30%"></span></div>
+  </div>
+  <p class="pick" aria-live="polite">Tap a unit to see where it sits.</p>
   </div>
   <div class="units">
     <h3>Village Cottages</h3>
     <p class="sub">About a mile down the road, in Buxton village.</p>
     <details class="grp" open><summary>1-bedroom units <small>7 types</small></summary><ul><li><button type="button" class="unit" data-units="F" data-name="F" data-desc="Cottage for Three w/ 1 Queen &amp; 1 Twin" aria-pressed="false"><b>F</b><span>Cottage for Three w/ 1 Queen &amp; 1 Twin</span></button></li><li><button type="button" class="unit" data-units="G1" data-name="G1" data-desc="Studio Room w/ 2 Doubles" aria-pressed="false"><b>G1</b><span>Studio Room w/ 2 Doubles</span></button></li><li><button type="button" class="unit" data-units="G2" data-name="G2" data-desc="Large Cottage w/ 1 Double &amp; 1 Twin" aria-pressed="false"><b>G2</b><span>Large Cottage w/ 1 Double &amp; 1 Twin</span></button></li><li><button type="button" class="unit" data-units="G5" data-name="G5" data-desc="Cottage w/ 1 Double &amp; 2 Twins" aria-pressed="false"><b>G5</b><span>Cottage w/ 1 Double &amp; 2 Twins</span></button></li><li><button type="button" class="unit" data-units="H JA1" data-name="H, JA1" data-desc="Cottage for Four" aria-pressed="false"><b>H, JA1</b><span>Cottage for Four</span></button></li><li><button type="button" class="unit" data-units="M1" data-name="M1" data-desc="Large Cottage w/ 2 Queens" aria-pressed="false"><b>M1</b><span>Large Cottage w/ 2 Queens</span></button></li><li><button type="button" class="unit" data-units="M2" data-name="M2" data-desc="Studio Room w/ 2 Queens" aria-pressed="false"><b>M2</b><span>Studio Room w/ 2 Queens</span></button></li></ul></details><details class="grp"><summary>2-bedroom units <small>4 types</small></summary><ul><li><button type="button" class="unit" data-units="G1 G2" data-name="G1+G2" data-desc="Cottage Combo w/ 3 Doubles &amp; 1 Twin" aria-pressed="false"><b>G1+G2</b><span>Cottage Combo w/ 3 Doubles &amp; 1 Twin</span></button></li><li><button type="button" class="unit" data-units="G3" data-name="G3" data-desc="Cottage w/ 2 Doubles &amp; 2 Twins" aria-pressed="false"><b>G3</b><span>Cottage w/ 2 Doubles &amp; 2 Twins</span></button></li><li><button type="button" class="unit" data-units="G4 G6" data-name="G4, G6" data-desc="Cottage for Four" aria-pressed="false"><b>G4, G6</b><span>Cottage for Four</span></button></li><li><button type="button" class="unit" data-units="WH" data-name="WH" data-desc="Cottage w/ 1 Queen &amp; 2 Doubles" aria-pressed="false"><b>WH</b><span>Cottage w/ 1 Queen &amp; 2 Doubles</span></button></li></ul></details><details class="grp"><summary>3-bedroom units <small>6 types</small></summary><ul><li><button type="button" class="unit" data-units="D" data-name="D" data-desc="Cottage w/ 1 King, 1 Queen &amp; 4 Twins" aria-pressed="false"><b>D</b><span>Cottage w/ 1 King, 1 Queen &amp; 4 Twins</span></button></li><li><button type="button" class="unit" data-units="JA2" data-name="JA2" data-desc="Cottage w/ 1 King, 2 Queens &amp; 3 Twins" aria-pressed="false"><b>JA2</b><span>Cottage w/ 1 King, 2 Queens &amp; 3 Twins</span></button></li><li><button type="button" class="unit" data-units="KM" data-name="KM" data-desc="Cottage w/ 1 King, 1 Queen &amp; 4 Twins" aria-pressed="false"><b>KM</b><span>Cottage w/ 1 King, 1 Queen &amp; 4 Twins</span></button></li><li><button type="button" class="unit" data-units="ME1" data-name="ME1" data-desc="Duplex w/ 2 Kings, 2 Queens &amp; 2 Twins" aria-pressed="false"><b>ME1</b><span>Duplex w/ 2 Kings, 2 Queens &amp; 2 Twins</span></button></li><li><button type="button" class="unit" data-units="ME2" data-name="ME2" data-desc="Duplex w/ 2 Kings, 2 Queens &amp; 2 Twins" aria-pressed="false"><b>ME2</b><span>Duplex w/ 2 Kings, 2 Queens &amp; 2 Twins</span></button></li><li><button type="button" class="unit" data-units="WO" data-name="WO" data-desc="Cottage w/ 1 Queen, 3 Doubles &amp; 1 Twin" aria-pressed="false"><b>WO</b><span>Cottage w/ 1 Queen, 3 Doubles &amp; 1 Twin</span></button></li></ul></details>
-    <p class="pick" aria-live="polite">Tap a unit to see where it sits.</p>
   </div>
 </div>
   </div>
@@ -258,7 +262,7 @@ document.querySelectorAll('[data-finder]').forEach(f=>{
     pick.innerHTML='';
     pick.append((many?'Units ':'Unit ')+b.dataset.name+', '+b.dataset.desc+'. To book this exact '+(many?'one':'unit')+', call ');
     const a=document.createElement('a');a.href='tel:+12529955601';a.textContent='(252) 995-5601';pick.append(a,'.');
-    if(matchMedia('(max-width:900px)').matches){const r=map.getBoundingClientRect();if(r.bottom<80||r.top>innerHeight*.5)map.scrollIntoView({behavior:matchMedia('(prefers-reduced-motion:reduce)').matches?'auto':'smooth',block:'start'})}
+    if(matchMedia('(max-width:900px)').matches){const mc=map.parentElement,r=mc.getBoundingClientRect();if(r.top<70||r.bottom>innerHeight)mc.scrollIntoView({behavior:matchMedia('(prefers-reduced-motion:reduce)').matches?'auto':'smooth',block:'start'})}
   }));
 });
 document.querySelectorAll('[role=tablist]').forEach(tl=>{

diff --git a/outer-banks-motel-buxton-nc/contact.html b/outer-banks-motel-buxton-nc/contact.html
@@ -47,8 +47,9 @@ header.top .wrap{display:flex;align-items:center;gap:1.5rem;min-height:4.25rem}
 .top .call-sm{padding:.55rem 1rem;min-height:2.6rem;font-size:1rem}
 /* hero */
 .hero{padding:clamp(1.5rem,4vw,3.25rem) 0 0}
-.hero-head{display:grid;grid-template-columns:minmax(0,1.6fr) minmax(0,1fr);gap:1rem 3rem;align-items:end}
+.hero-head{display:grid;grid-template-columns:minmax(0,1.6fr) minmax(0,1fr);gap:1rem 3rem;align-items:start}
 .lede{font-size:1.125rem;color:#2e3a3d;margin-top:.9rem}
+.hero-head .actions{margin-top:.6rem}
 .actions{display:flex;flex-wrap:wrap;gap:.75rem;margin-top:1.4rem}
 .mp{display:flex;align-items:center;gap:.85rem;margin-top:1.2rem;font:500 .98rem/1.35 Overpass,sans-serif;color:var(--shake)}
 .plate{flex:none;display:grid;place-items:center;width:3.4rem;height:4rem;background:var(--sign);color:#fff;border:2px solid #fff;outline:2px solid var(--sign);border-radius:.35rem;font:800 .72rem/1 Overpass,sans-serif;text-align:center;padding-top:.2rem}
@@ -62,7 +63,8 @@ section{padding:clamp(3rem,7vw,5.5rem) 0}
 .intro{margin-top:.9rem;color:#2e3a3d}
 .band{background:var(--dune)}
 .finder{display:grid;grid-template-columns:minmax(0,1.75fr) minmax(0,1fr);gap:2rem;margin-top:2rem;align-items:start}
-.map{position:sticky;top:5.5rem;border-radius:.5rem;overflow:hidden;background:#3b3a35}
+.mapcol{position:sticky;top:5.6rem;scroll-margin-top:5rem}
+.map{position:relative;border-radius:.5rem;overflow:hidden;background:#3b3a35}
 .rings{position:absolute;inset:0}
 .xs{display:grid;grid-template-columns:1.1fr .9fr .8fr 1.1fr;margin-top:2rem;border-radius:.5rem;overflow:hidden}
 .xs div{padding:1.4rem 1.2rem 1.5rem;font-size:1rem;line-height:1.5}
@@ -85,7 +87,7 @@ section{padding:clamp(3rem,7vw,5.5rem) 0}
 .unit:hover{background:rgba(255,255,255,.55)}
 .unit:focus-visible{outline:3px solid var(--sound)}
 .unit[aria-pressed=true]{background:var(--ink);color:#fff}.unit[aria-pressed=true] b{color:#ffd23f}
-.pick{margin-top:1rem;font:500 .98rem/1.45 Overpass,sans-serif;color:var(--shake);min-height:2.9em}
+.pick{margin-top:.75rem;font:500 .98rem/1.45 Overpass,sans-serif;color:var(--shake);min-height:2.9em}
 .pick a{color:var(--red-2);font-weight:800}
 .tabs{display:flex;gap:.4rem;margin-top:1.6rem;flex-wrap:wrap}
 .tabs button{font:700 1rem Overpass,sans-serif;padding:.6rem 1rem;border:2px solid var(--ink);background:transparent;color:var(--ink);border-radius:999px;cursor:pointer}
@@ -122,7 +124,7 @@ footer nav{display:grid;gap:.2rem}
   .menu{display:block}
   .brand img{width:112px}
   .hero-head,.finder,.two,.cols,.facts,.xs{grid-template-columns:1fr}
-  .map{position:relative;top:0}
+  .mapcol{position:relative;top:0}
   .finder{gap:1.25rem}
   .grid{grid-template-columns:1fr}
   .amen{columns:1}
@@ -238,7 +240,7 @@ document.querySelectorAll('[data-finder]').forEach(f=>{
     pick.innerHTML='';
     pick.append((many?'Units ':'Unit ')+b.dataset.name+', '+b.dataset.desc+'. To book this exact '+(many?'one':'unit')+', call ');
     const a=document.createElement('a');a.href='tel:+12529955601';a.textContent='(252) 995-5601';pick.append(a,'.');
-    if(matchMedia('(max-width:900px)').matches){const r=map.getBoundingClientRect();if(r.bottom<80||r.top>innerHeight*.5)map.scrollIntoView({behavior:matchMedia('(prefers-reduced-motion:reduce)').matches?'auto':'smooth',block:'start'})}
+    if(matchMedia('(max-width:900px)').matches){const mc=map.parentElement,r=mc.getBoundingClientRect();if(r.top<70||r.bottom>innerHeight)mc.scrollIntoView({behavior:matchMedia('(prefers-reduced-motion:reduce)').matches?'auto':'smooth',block:'start'})}
   }));
 });
 document.querySelectorAll('[role=tablist]').forEach(tl=>{

diff --git a/outer-banks-motel-buxton-nc/hatteras.html b/outer-banks-motel-buxton-nc/hatteras.html
@@ -47,8 +47,9 @@ header.top .wrap{display:flex;align-items:center;gap:1.5rem;min-height:4.25rem}
 .top .call-sm{padding:.55rem 1rem;min-height:2.6rem;font-size:1rem}
 /* hero */
 .hero{padding:clamp(1.5rem,4vw,3.25rem) 0 0}
-.hero-head{display:grid;grid-template-columns:minmax(0,1.6fr) minmax(0,1fr);gap:1rem 3rem;align-items:end}
+.hero-head{display:grid;grid-template-columns:minmax(0,1.6fr) minmax(0,1fr);gap:1rem 3rem;align-items:start}
 .lede{font-size:1.125rem;color:#2e3a3d;margin-top:.9rem}
+.hero-head .actions{margin-top:.6rem}
 .actions{display:flex;flex-wrap:wrap;gap:.75rem;margin-top:1.4rem}
 .mp{display:flex;align-items:center;gap:.85rem;margin-top:1.2rem;font:500 .98rem/1.35 Overpass,sans-serif;color:var(--shake)}
 .plate{flex:none;display:grid;place-items:center;width:3.4rem;height:4rem;background:var(--sign);color:#fff;border:2px solid #fff;outline:2px solid var(--sign);border-radius:.35rem;font:800 .72rem/1 Overpass,sans-serif;text-align:center;padding-top:.2rem}
@@ -62,7 +63,8 @@ section{padding:clamp(3rem,7vw,5.5rem) 0}
 .intro{margin-top:.9rem;color:#2e3a3d}
 .band{background:var(--dune)}
 .finder{display:grid;grid-template-columns:minmax(0,1.75fr) minmax(0,1fr);gap:2rem;margin-top:2rem;align-items:start}
-.map{position:sticky;top:5.5rem;border-radius:.5rem;overflow:hidden;background:#3b3a35}
+.mapcol{position:sticky;top:5.6rem;scroll-margin-top:5rem}
+.map{position:relative;border-radius:.5rem;overflow:hidden;background:#3b3a35}
 .rings{position:absolute;inset:0}
 .xs{display:grid;grid-template-columns:1.1fr .9fr .8fr 1.1fr;margin-top:2rem;border-radius:.5rem;overflow:hidden}
 .xs div{padding:1.4rem 1.2rem 1.5rem;font-size:1rem;line-height:1.5}
@@ -85,7 +87,7 @@ section{padding:clamp(3rem,7vw,5.5rem) 0}
 .unit:hover{background:rgba(255,255,255,.55)}
 .unit:focus-visible{outline:3px solid var(--sound)}
 .unit[aria-pressed=true]{background:var(--ink);color:#fff}.unit[aria-pressed=true] b{color:#ffd23f}
-.pick{margin-top:1rem;font:500 .98rem/1.45 Overpass,sans-serif;color:var(--shake);min-height:2.9em}
+.pick{margin-top:.75rem;font:500 .98rem/1.45 Overpass,sans-serif;color:var(--shake);min-height:2.9em}
 .pick a{color:var(--red-2);font-weight:800}
 .tabs{display:flex;gap:.4rem;margin-top:1.6rem;flex-wrap:wrap}
 .tabs button{font:700 1rem Overpass,sans-serif;padding:.6rem 1rem;border:2px solid var(--ink);background:transparent;color:var(--ink);border-radius:999px;cursor:pointer}
@@ -122,7 +124,7 @@ footer nav{display:grid;gap:.2rem}
   .menu{display:block}
   .brand img{width:112px}
   .hero-head,.finder,.two,.cols,.facts,.xs{grid-template-columns:1fr}
-  .map{position:relative;top:0}
+  .mapcol{position:relative;top:0}
   .finder{gap:1.25rem}
   .grid{grid-template-columns:1fr}
   .amen{columns:1}
@@ -228,7 +230,7 @@ document.querySelectorAll('[data-finder]').forEach(f=>{
     pick.innerHTML='';
     pick.append((many?'Units ':'Unit ')+b.dataset.name+', '+b.dataset.desc+'. To book this exact '+(many?'one':'unit')+', call ');
     const a=document.createElement('a');a.href='tel:+12529955601';a.textContent='(252) 995-5601';pick.append(a,'.');
-    if(matchMedia('(max-width:900px)').matches){const r=map.getBoundingClientRect();if(r.bottom<80||r.top>innerHeight*.5)map.scrollIntoView({behavior:matchMedia('(prefers-reduced-motion:reduce)').matches?'auto':'smooth',block:'start'})}
+    if(matchMedia('(max-width:900px)').matches){const mc=map.parentElement,r=mc.getBoundingClientRect();if(r.top<70||r.bottom>innerHeight)mc.scrollIntoView({behavior:matchMedia('(prefers-reduced-motion:reduce)').matches?'auto':'smooth',block:'start'})}
   }));
 });
 document.querySelectorAll('[role=tablist]').forEach(tl=>{
